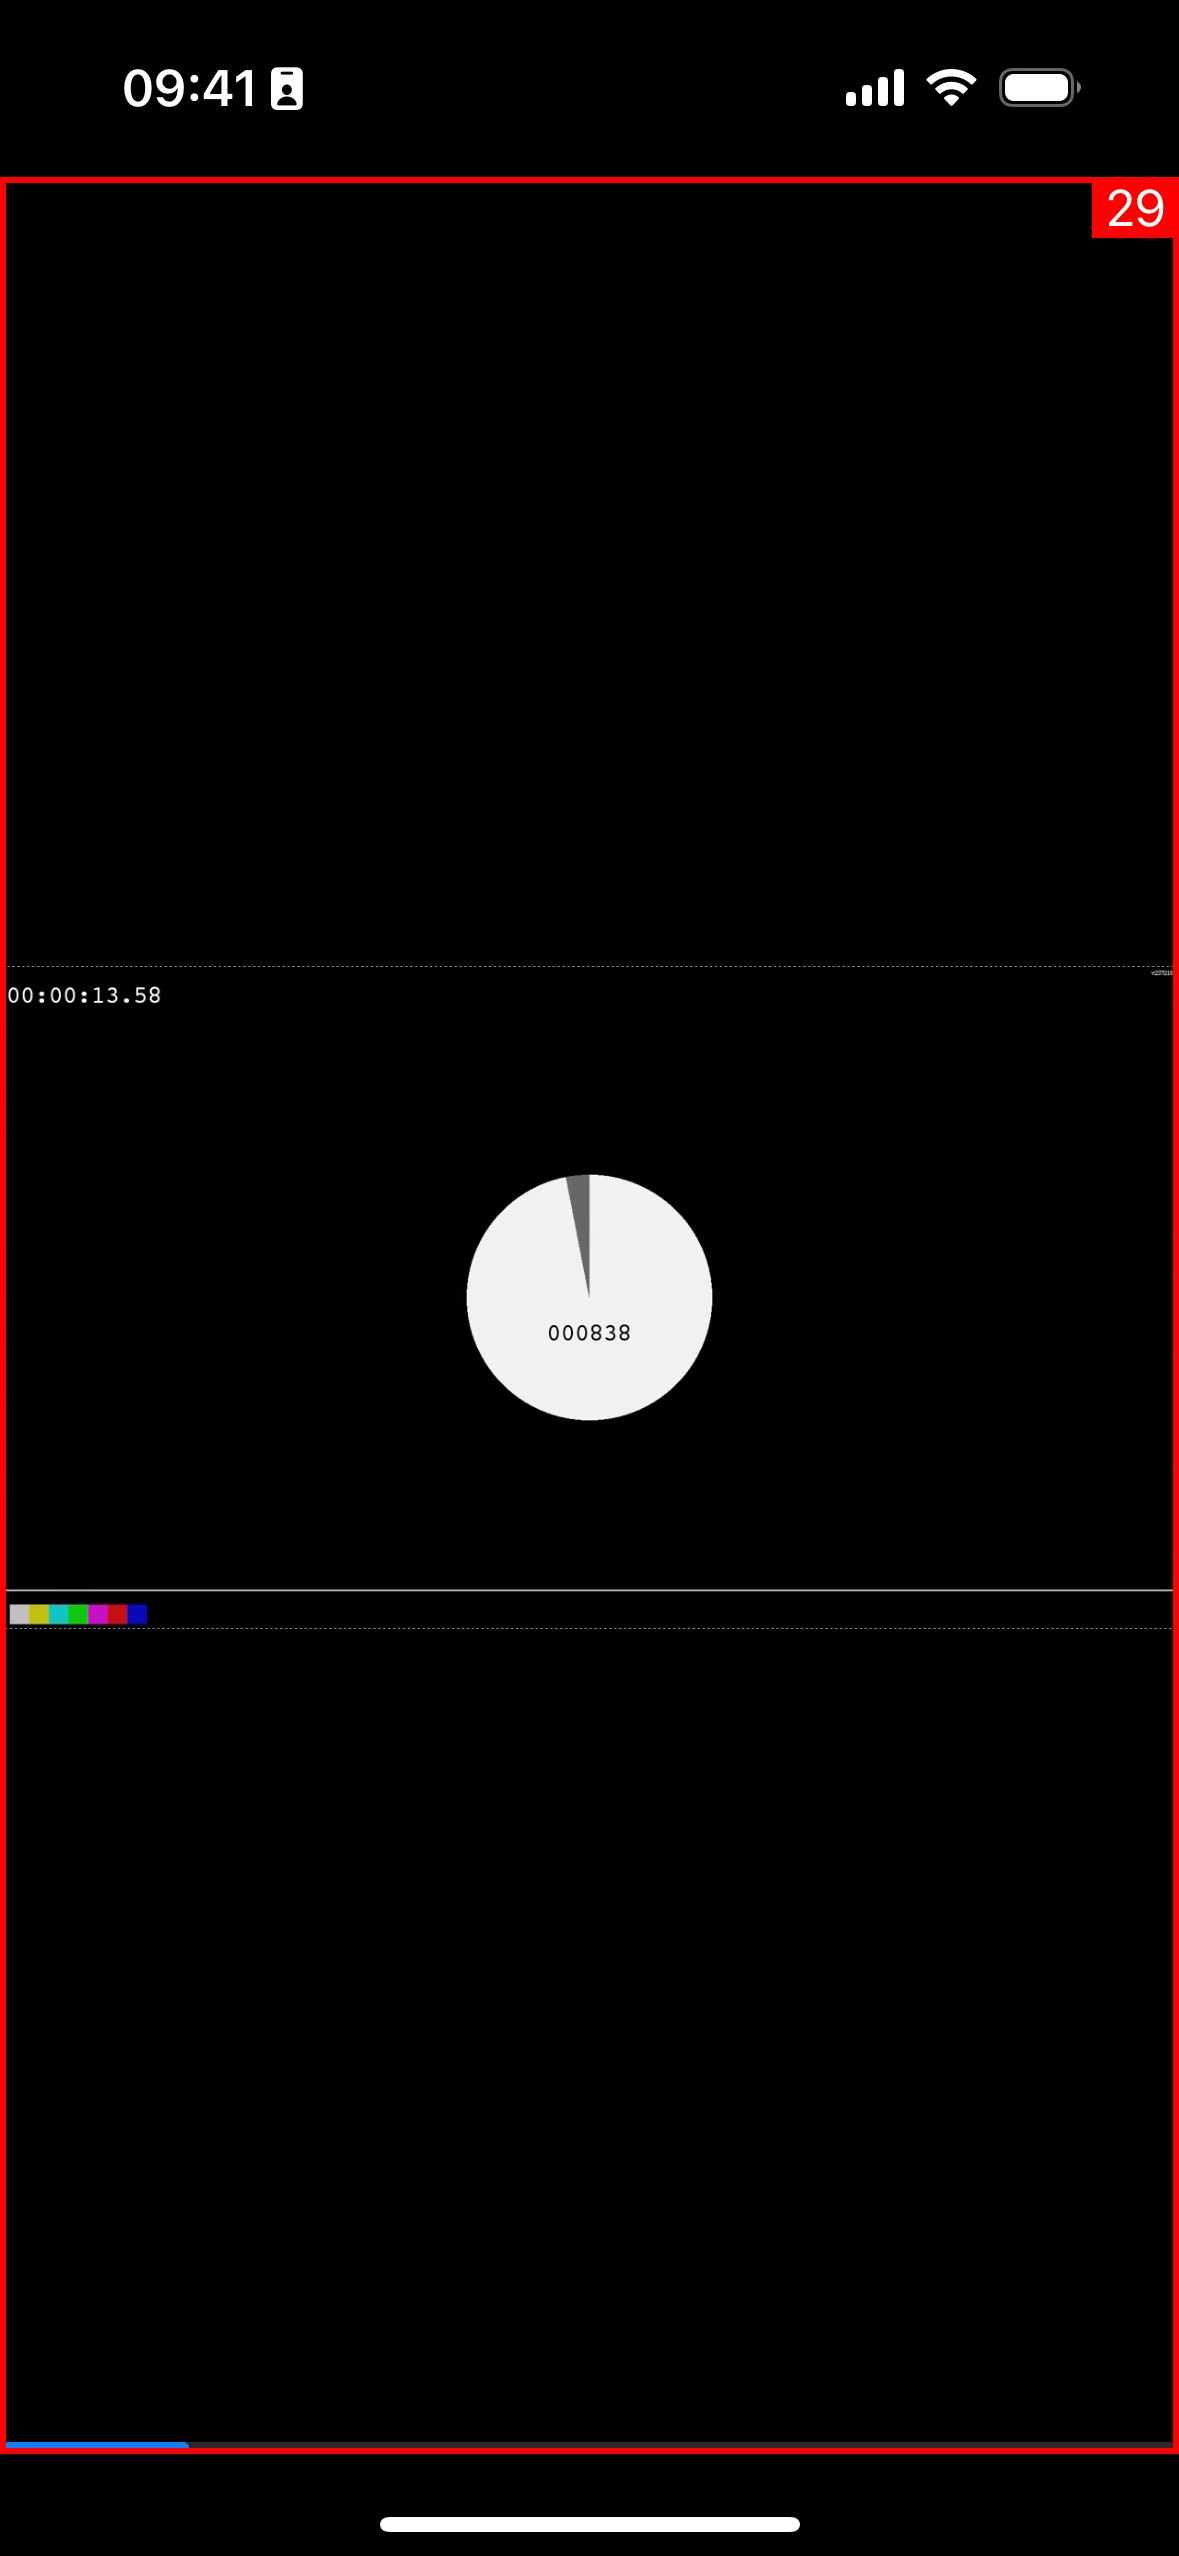
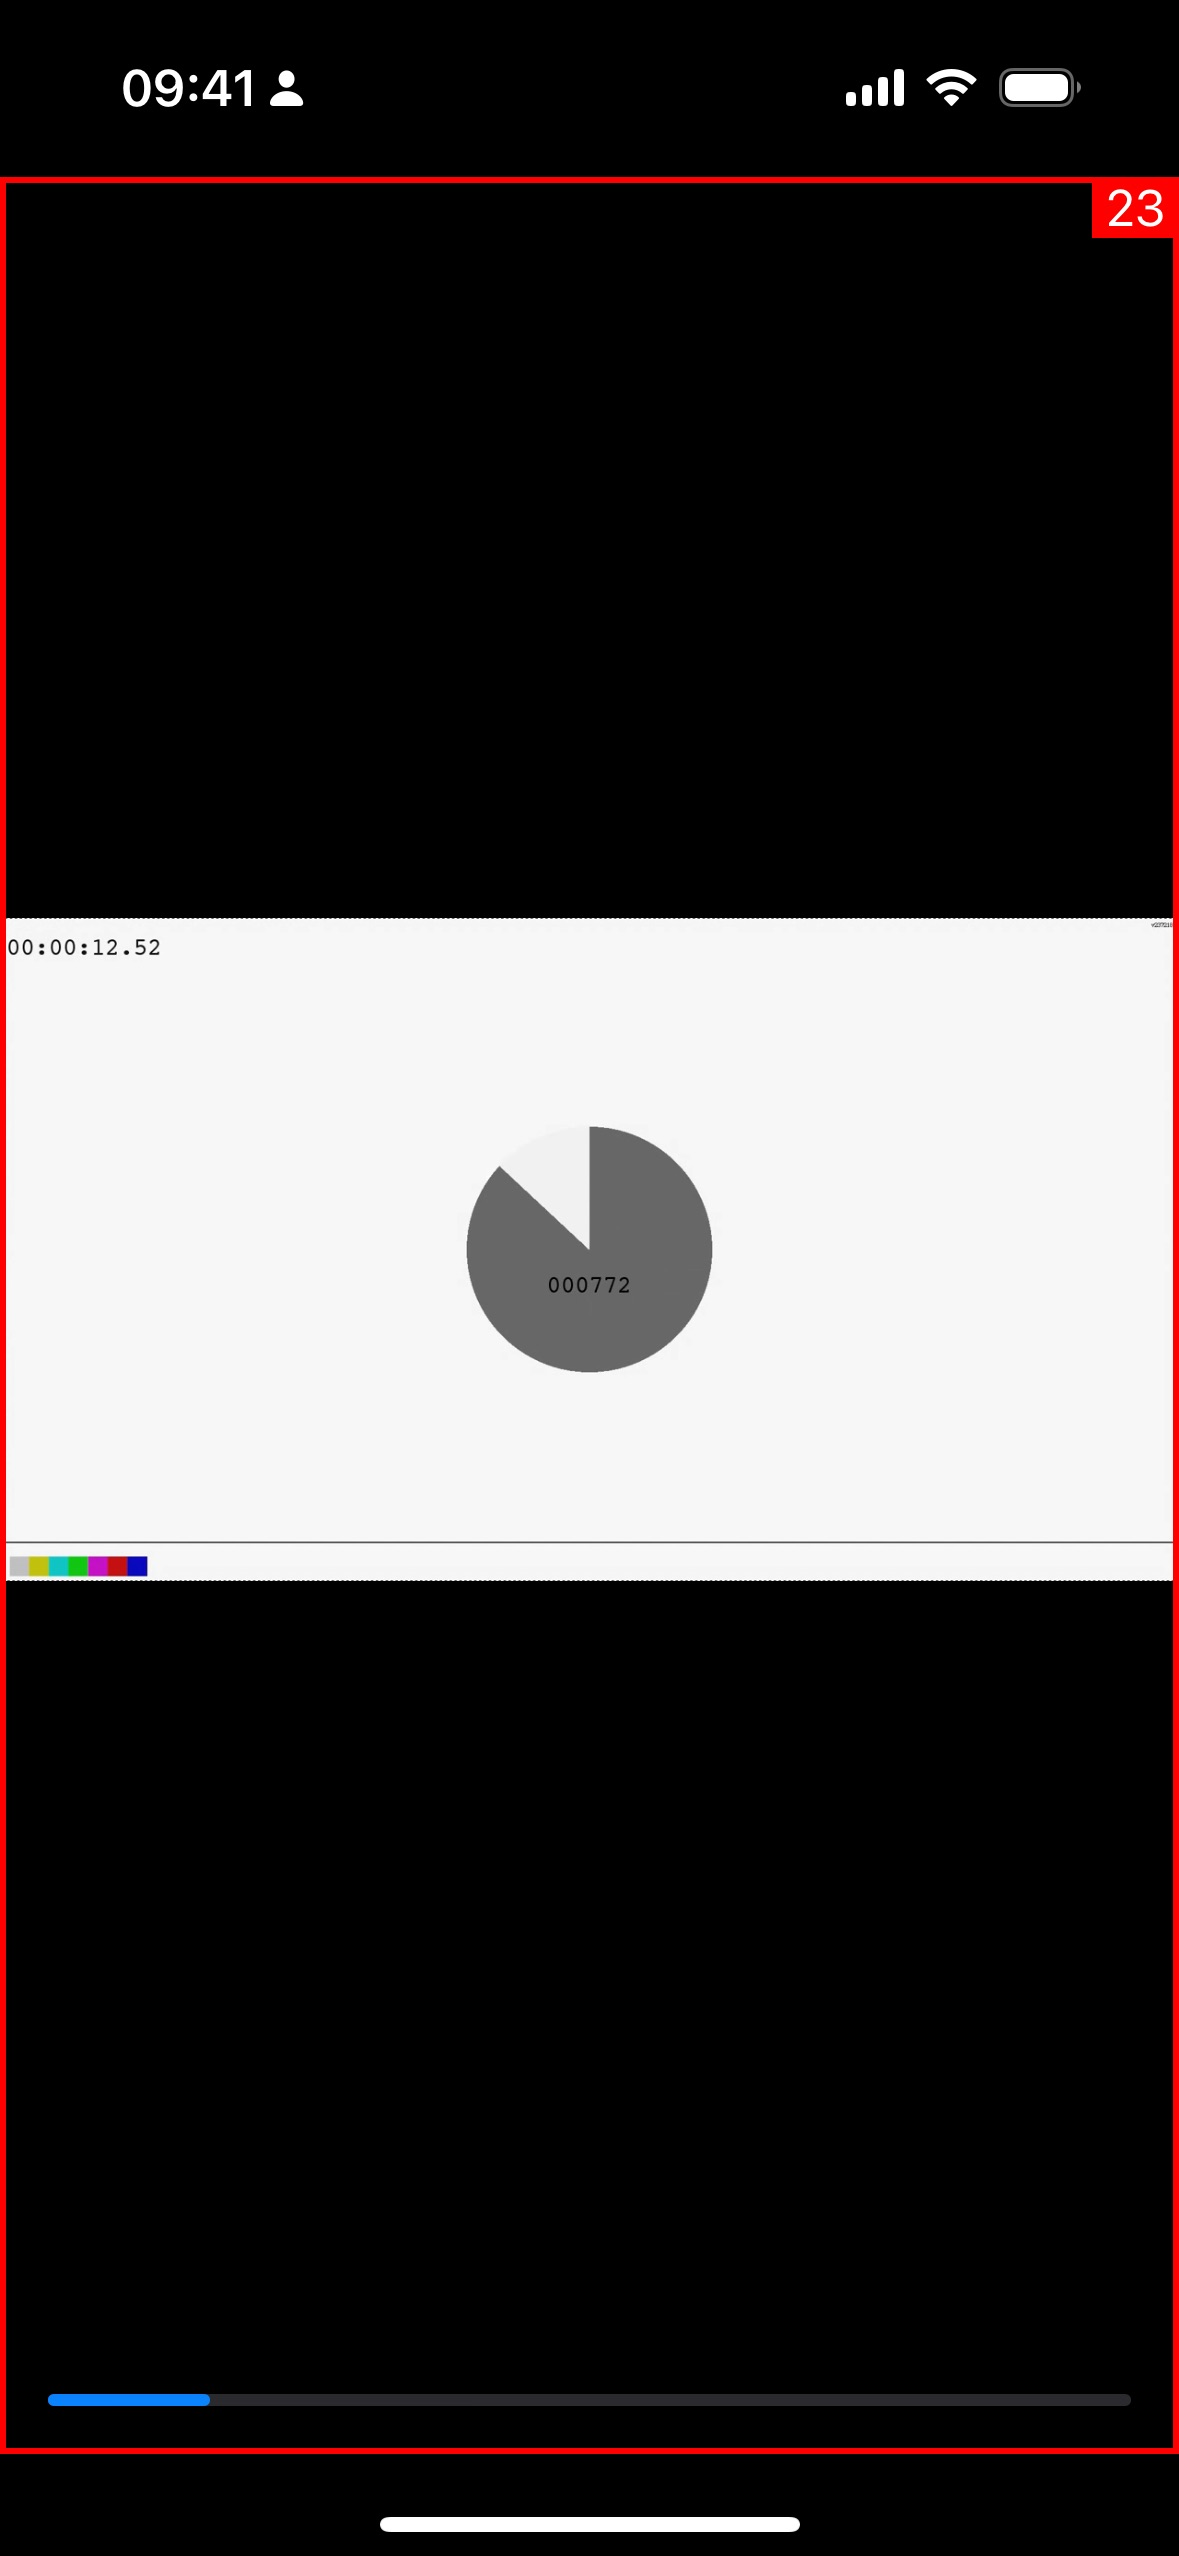
Improve progress view visibility

Changed region(s): [[0.0, 0.34, 1.0, 0.6491], [0.0305, 0.9272, 0.9771, 0.9581], [0.2137, 0.0309, 0.2748, 0.0618]]

diff --git a/Sources/Player/Player.docc/Tutorials/optimizing-custom-layouts/optimizing-custom-layouts-2-3.swift b/Sources/Player/Player.docc/Tutorials/optimizing-custom-layouts/optimizing-custom-layouts-2-3.swift
@@ -13,6 +13,7 @@ struct ContentView: View {
         VStack {
             VideoView(player: player)
             ProgressView(value: buffer)
+                .padding()
         }
         ._debugBodyCounter()
         .onReceive(player: player, assign: \.buffer, to: $buffer)

diff --git a/Demo/Tutorials/OptimizingCustomLayouts2~ios.swift b/Demo/Tutorials/OptimizingCustomLayouts2~ios.swift
@@ -30,6 +30,7 @@ private struct BufferingView: View {
 
     var body: some View {
         ProgressView(value: buffer)
+            .padding()
             .onReceive(player: player, assign: \.buffer, to: $buffer)
     }
 }

diff --git a/Sources/Player/Player.docc/Tutorials/optimizing-custom-layouts/optimizing-custom-layouts-2-5.swift b/Sources/Player/Player.docc/Tutorials/optimizing-custom-layouts/optimizing-custom-layouts-2-5.swift
@@ -23,6 +23,7 @@ private struct BufferingView: View {
 
     var body: some View {
         ProgressView(value: buffer)
+            .padding()
             .onReceive(player: player, assign: \.buffer, to: $buffer)
     }
 }

diff --git a/Sources/Player/Player.docc/Tutorials/optimizing-custom-layouts/optimizing-custom-layouts-2-6.swift b/Sources/Player/Player.docc/Tutorials/optimizing-custom-layouts/optimizing-custom-layouts-2-6.swift
@@ -24,6 +24,7 @@ private struct BufferingView: View {
 
     var body: some View {
         ProgressView(value: buffer)
+            .padding()
             .onReceive(player: player, assign: \.buffer, to: $buffer)
     }
 }

diff --git a/Sources/Player/Player.docc/Tutorials/optimizing-custom-layouts/optimizing-custom-layouts-2-4.swift b/Sources/Player/Player.docc/Tutorials/optimizing-custom-layouts/optimizing-custom-layouts-2-4.swift
@@ -21,5 +21,6 @@ private struct BufferingView: View {
 
     var body: some View {
         ProgressView(value: buffer)
+            .padding()
     }
 }
